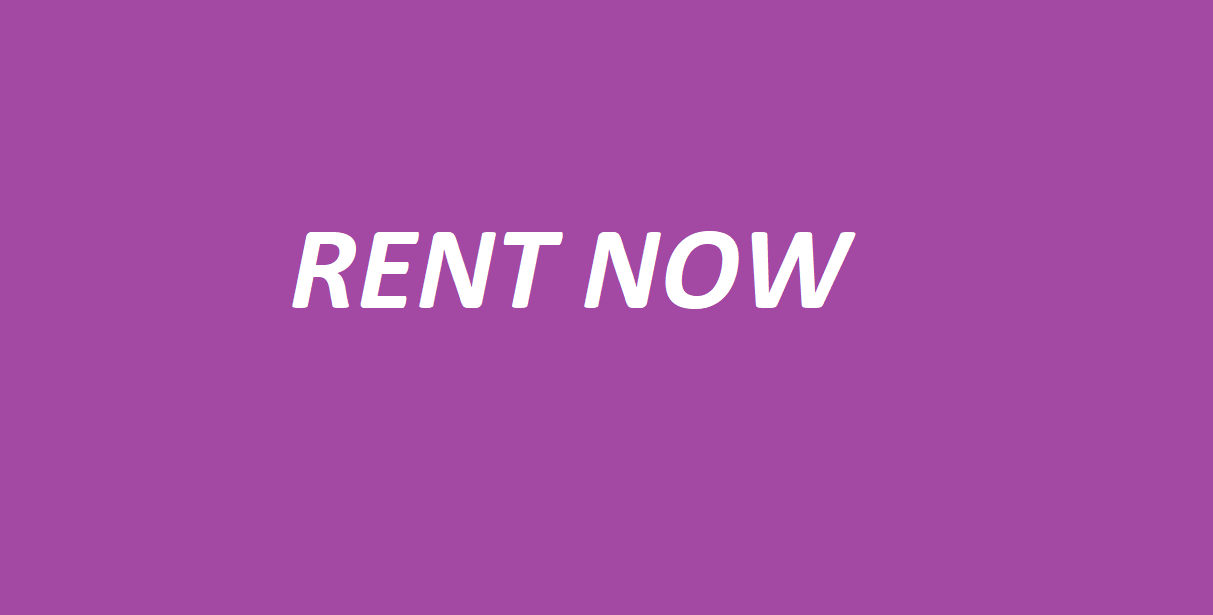
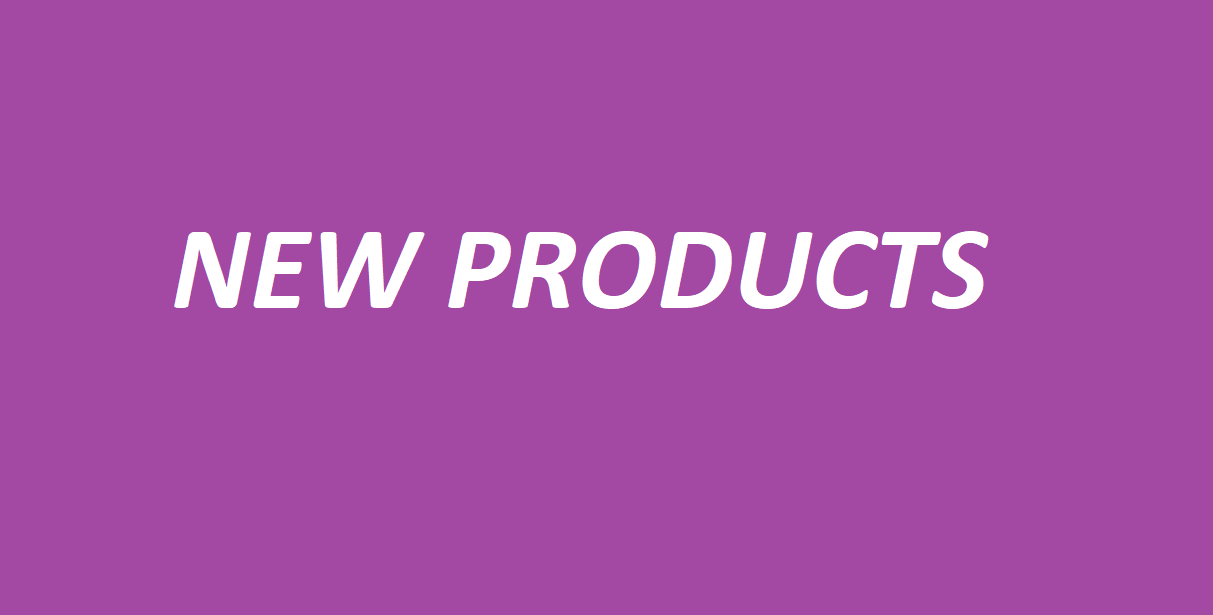
landing page uptaded

Changed region(s): [[0.122, 0.3707, 0.8236, 0.5252]]

diff --git a/Frontend/rentgo/src/CategoriesBar/CategoriesBar.js b/Frontend/rentgo/src/CategoriesBar/CategoriesBar.js
@@ -1,60 +1,52 @@
 import React, { useState } from 'react';
 import './CategoriesBar.css';
-import electronicsIcon from '../assets/icons/Smartphone.png'; 
-import babyIcon from '../assets/icons/BabyBottle.png';
 
 const categories = [
-  { name: "Tüm Ürünler", icon: electronicsIcon, subcategories: [] },
   { 
-    name: "Elektronik", 
-    icon: electronicsIcon,
-    subcategories: ["Telefon", "Laptop", "Tablet"]
+    name: "All Products", 
+    emoji: "📦",
+    subcategories: [] 
   },
   { 
-    name: "Bebek & Çocuk", 
-    icon: babyIcon,
-    subcategories: ["Bebek Arabası", "Oyuncak", "Mama Sandalyesi"]
+    name: "Personal Care", 
+    emoji: "💄",
+    subcategories: ["Hair Care", "Skin Care", "Oral Care"] 
   },
   { 
-    name: "Bebek & Çocuk", 
-    icon: babyIcon,
-    subcategories: ["Bebek Arabası", "Oyuncak", "Mama Sandalyesi"]
+    name: "Hobbies & Games", 
+    emoji: "🎮",
+    subcategories: ["Musical Instruments", "Sports Equipment", "Gaming Consoles"]
   },
   { 
-    name: "Bebek & Çocuk", 
-    icon: babyIcon,
-    subcategories: ["Bebek Arabası", "Oyuncak", "Mama Sandalyesi"]
+    name: "Smart Home", 
+    emoji: "🏠",
+    subcategories: ["Smart Lighting", "Security Systems", "Cleaning Robots"]
   },
   { 
-    name: "Bebek & Çocuk", 
-    icon: babyIcon,
-    subcategories: ["Bebek Arabası", "Oyuncak", "Mama Sandalyesi"]
+    name: "Baby & Kids", 
+    emoji: "👶",
+    subcategories: ["Strollers", "Toys", "High Chairs"]
   },
   { 
-    name: "Bebek & Çocuk", 
-    icon: babyIcon,
-    subcategories: ["Bebek Arabası", "Oyuncak", "Mama Sandalyesi"]
+    name: "Phones", 
+    emoji: "📱",
+    subcategories: ["iPhone", "Samsung", "Other Brands"]
   },
   { 
-    name: "Bebek & Çocuk", 
-    icon: babyIcon,
-    subcategories: ["Bebek Arabası", "Oyuncak", "Mama Sandalyesi"]
+    name: "Tablets & Laptops", 
+    emoji: "💻",
+    subcategories: ["iPad", "MacBook", "Windows Laptops"]
   },
   { 
-    name: "Bebek & Çocuk", 
-    icon: babyIcon,
-    subcategories: ["Bebek Arabası", "Oyuncak", "Mama Sandalyesi"]
+    name: "Smart Watches", 
+    emoji: "⌚",
+    subcategories: ["Apple Watch", "Samsung Gear", "Fitbit"]
   },
   { 
-    name: "Bebek & Çocuk", 
-    icon: babyIcon,
-    subcategories: ["Bebek Arabası", "Oyuncak", "Mama Sandalyesi"]
-  },
-  { 
-    name: "Bebek & Çocuk", 
-    icon: babyIcon,
-    subcategories: ["Bebek Arabası", "Oyuncak", "Mama Sandalyesi"]
-  },
+    name: "Campaigns", 
+    emoji: "🏷",
+    subcategories: ["Weekly Deals", "Special Discounts", "Product Bundles"]
+  }
 ];
 
 const CategoriesBar = () => {
@@ -69,13 +61,15 @@ const CategoriesBar = () => {
           onMouseEnter={() => setActiveCategory(index)}
           onMouseLeave={() => setActiveCategory(null)}
         >
-          <img src={category.icon} alt={category.name} className="category-icon" />
-          <span>{category.name}</span>
+          <span className="category-emoji">{category.emoji}</span>
+          <span className="category-name">{category.name}</span>
           
           {activeCategory === index && category.subcategories.length > 0 && (
             <div className="subcategories-dropdown">
               {category.subcategories.map((sub, i) => (
-                <div key={i} className="subcategory-item">{sub}</div>
+                <div key={i} className="subcategory-item">
+                  {sub}
+                </div>
               ))}
             </div>
           )}

diff --git a/Frontend/rentgo/src/CategoriesBar/CategoriesBar.css b/Frontend/rentgo/src/CategoriesBar/CategoriesBar.css
@@ -2,43 +2,74 @@
   display: flex;
   overflow-x: visible;
   background-color: #f8f9fa;
-  padding: 10px 20px;
-  gap: 25px;
+  padding: 15px 20px;
+  gap: 30px;
+  position: relative;
+  z-index: 100;
+  scrollbar-width: thin;
+  scrollbar-color: #8749dd #f1f1f1;
+}
+
+.categories-container::-webkit-scrollbar {
+  height: 6px;
+}
+
+.categories-container::-webkit-scrollbar-track {
+  background: #f1f1f1;
+}
+
+.categories-container::-webkit-scrollbar-thumb {
+  background-color: #8749dd;
+  border-radius: 6px;
 }
 
 .category-item {
   display: flex;
   flex-direction: column;
   align-items: center;
-  min-width: 80px;
+  min-width: 90px;
   cursor: pointer;
   position: relative;
   padding: 5px 0;
+  transition: transform 0.2s;
 }
 
-.category-icon {
-  width: 24px;
-  height: 24px;
-  margin-bottom: 5px;
+.category-item:hover {
+  transform: translateY(-3px);
+}
+
+.category-emoji {
+  font-size: 24px;
+  margin-bottom: 8px;
+}
+
+.category-name {
+  font-size: 14px;
+  font-weight: 500;
+  color: #333;
+  text-align: center;
 }
 
 .subcategories-dropdown {
   position: absolute;
   top: 100%;
-  left: 0;
+  left: 50%;
+  transform: translateX(-50%);
   background: white;
-  box-shadow: 0 3px 10px rgba(0,0,0,0.2);
-  border-radius: 5px;
-  z-index: 1000;
-  padding: 10px;
-  min-width: 150px;
+  box-shadow: 0 5px 15px rgba(0,0,0,0.1);
+  border-radius: 8px;
+  z-index: 1001;
+  padding: 10px 0;
+  min-width: 180px;
 }
 
 .subcategory-item {
-  padding: 8px 12px;
+  padding: 10px 15px;
   white-space: nowrap;
+  transition: all 0.2s;
 }
 
 .subcategory-item:hover {
-  background-color: #f0f0f0;
+  background-color: #f8f0ff;
+  color: #8749dd;
 }

diff --git a/Frontend/rentgo/src/ImageCarousel/ImageCarousel.js b/Frontend/rentgo/src/ImageCarousel/ImageCarousel.js
@@ -8,13 +8,13 @@ const ImageCarousel = () => {
   const slides = [
     {
       image: slide1,
-      title: "ELEKTRONİKTE KİRALAMA DÖNEMİ BAŞLASIN",
-      description: "İhtiyacın olan elektronik cihazı kiralama, belirlediğin süre içinde kullan."
+      title: "THE ERA OF ELECTRONICS RENTAL BEGINS",
+      description: "Rent the electronic device you need and use it for your specified period."
     },
     {
       image: slide2,
-      title: "KAMPANYALI ÜRÜNLER",
-      description: "Özel fiyatlarla kiralık ürünler"
+      title: "CAMPAIGN PRODUCTS",
+      description: "Rental products at special prices"
     }
   ];
 
@@ -31,7 +31,7 @@ const ImageCarousel = () => {
         <div className="slide-content">
           <h2>{slides[currentSlide].title}</h2>
           <p>{slides[currentSlide].description}</p>
-          <button className="cta-button">Hemen Kirala</button>
+          <button className="cta-button">Rent Now</button>
         </div>
       </div>
     </div>

diff --git a/Frontend/rentgo/src/NavBar/NavBar.js b/Frontend/rentgo/src/NavBar/NavBar.js
@@ -20,8 +20,8 @@ const Navbar = () => {
         </button>
       </div>
       <div className="auth-buttons">
-        <Link to="/login" className="auth-button">Giriş Yap</Link>
-        <Link to="/register" className="auth-button">Kayıt Ol</Link>
+        <Link to="/login" className="auth-button">Log In</Link>
+        <Link to="/register" className="auth-button">Sign Up</Link>
       </div>
     </nav>
   );

diff --git a/Frontend/rentgo/src/ImageCarousel/ImageCarousel.css b/Frontend/rentgo/src/ImageCarousel/ImageCarousel.css
@@ -3,7 +3,7 @@
   height: 400px;
   position: relative;
   overflow: hidden; 
-  z-index: 1; 
+  z-index: 10;
 }
 
 .slide {
@@ -27,7 +27,7 @@
 
 .cta-button {
   padding: 10px 20px;
-  background-color: #3498db;
+  background-color: #8749dd;
   color: white;
   border: none;
   border-radius: 5px;
